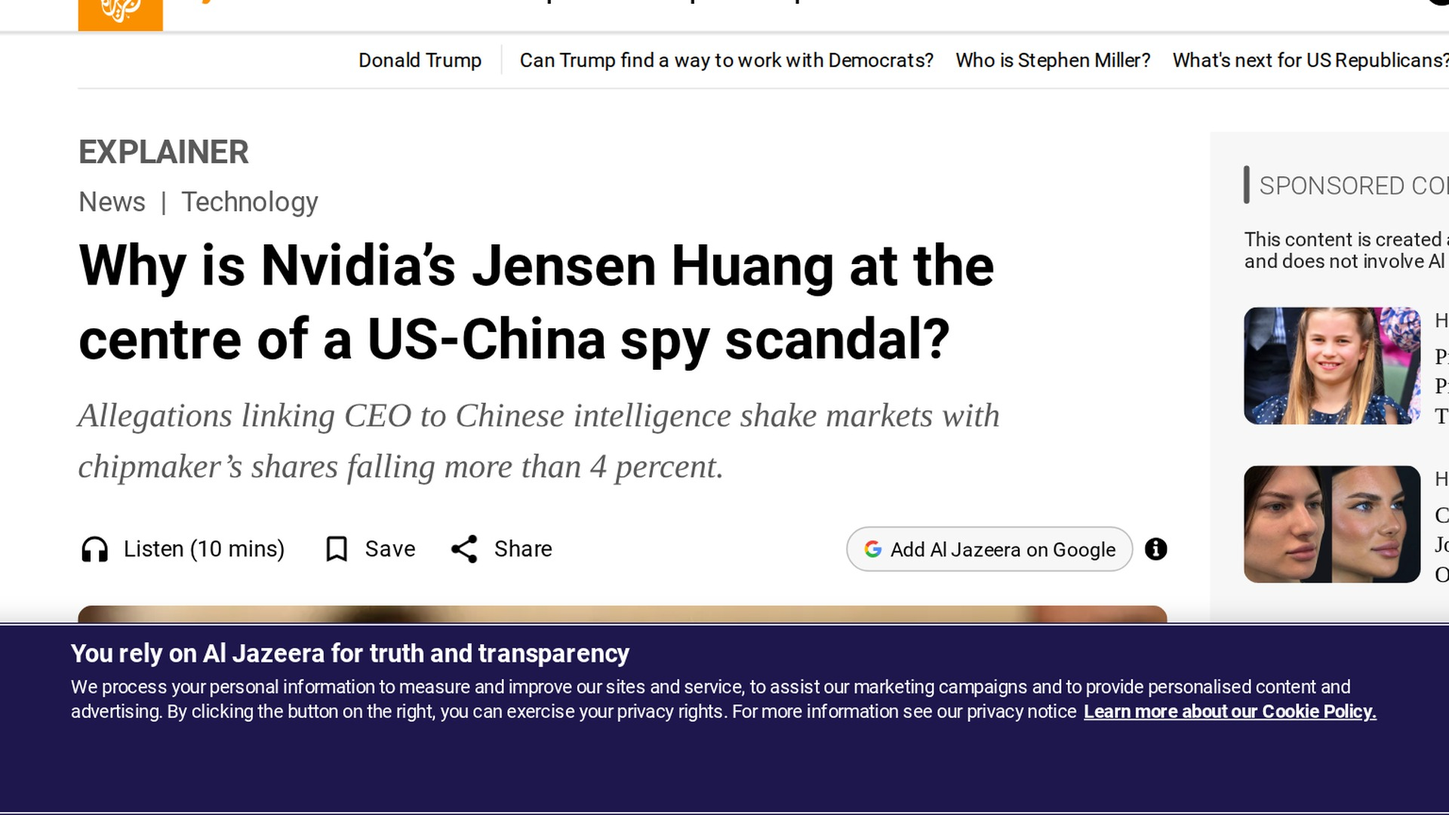
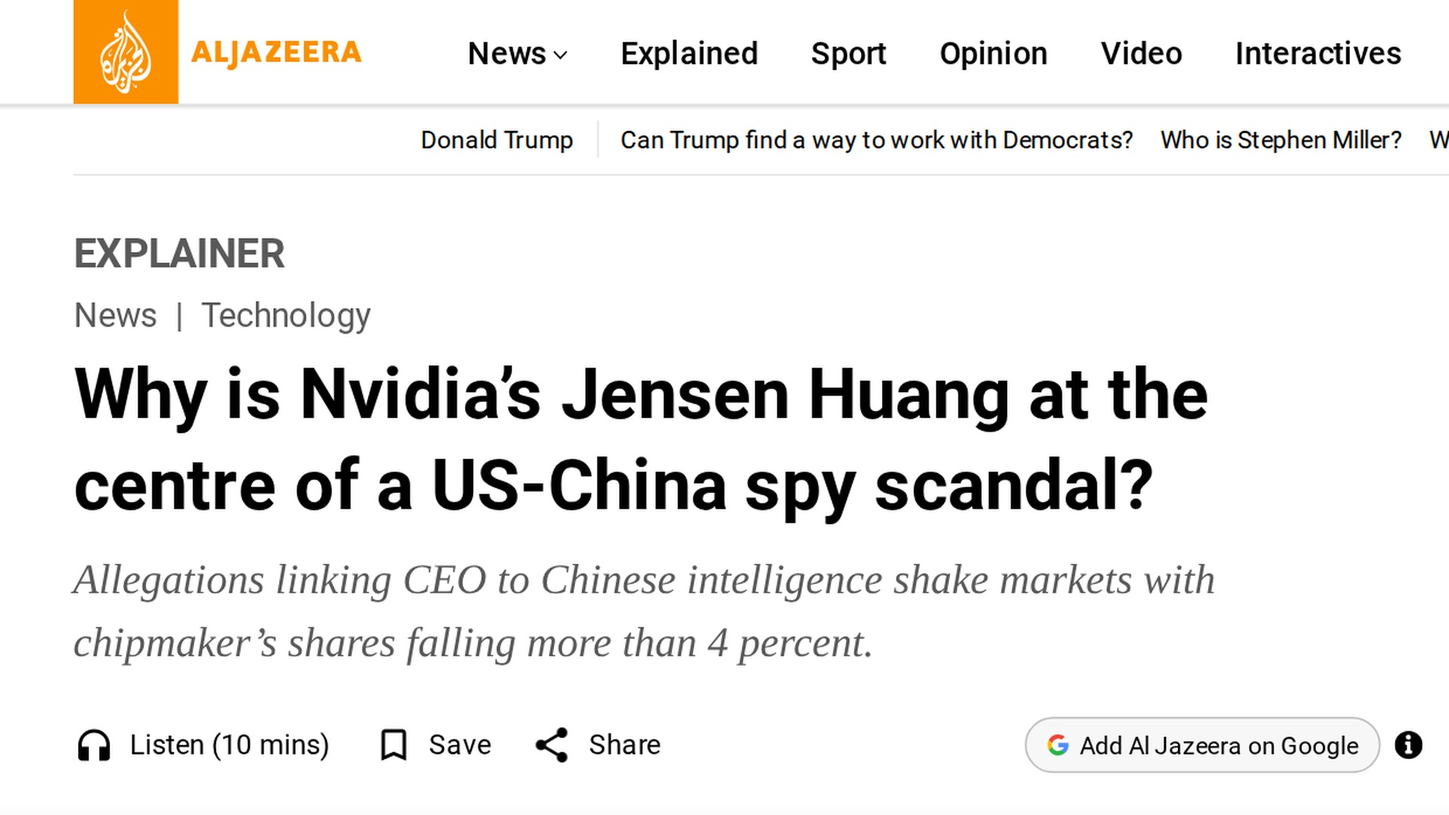
Nvidia video, review round: pages cropped clean, cards off the headlines, the update on screen, captions from the script [skip ci]
From the editor's, animator's and retention reviewer's findings on the 13 November render:
- Al Jazeera and Yahoo pages re-cropped to the article (no adverts rail with unrelated people's photos, no empty advert
  slot); the NBC page (a standfirst with other figures) replaced by the board's own statement with its words highlighted.
- brand.pagecards: strip, so cards sit along the foot and never on a headline ('alleged', 'UK savers'); highlights, a box
  and an underline on the real words of the board statement, the CNBC and the City AM headlines.
- Recorded 11 November 2026 on the title card; 'until 12 November 2026' on his caption; an update card where the voice says
  he is still the CEO, could be removed, might be fine. The update is the first paragraph of the description and comment.
- A still picture is no longer fitted like a 0.04 s clip and frozen: photos push in again (the opening above all).
- A made voice's captions are the script's words in the script's order; a sentence's last word stays with it.
- mute: in the script header silences a stray sound (80 ms at the end of one voice chunk); no word is touched.
- Chapters: 'UK savers' at 5:23, 'What I'm doing' where he reaches his own money; four cards in the set piece with the
  figures; the phone clip ends before the recording's stop swipe.

Claude-Session: https://claude.ai/code/session_01CTvnLS7TEWDTE3fQyBDcgb

diff --git a/video-pipeline/pipeline/build.py b/video-pipeline/pipeline/build.py
@@ -347,11 +347,18 @@ def write_timing(project: str, sb: dict, slug: str, audio_name: str | None) -> N
         json.dump(timing, f, separators=(",", ":"))
 
 
+STILL_EXTS = (".jpg", ".jpeg", ".png", ".webp")
+
+
 def fit_clip(sc: dict, path: str) -> list[str]:
     """Keep a clip's playback inside the file: a frame requested past the end of a video never returns
     and the render hangs. Pulls the start offset back when the scene would run off the end, and loops
     a file shorter than the scene."""
     notes = []
+    if os.path.splitext(path)[1].lower() in STILL_EXTS:
+        # a still picture has no length to fit. Read as a 0.04 s clip it was "held on its last frame" from frame two,
+        # which froze it: the push-in the script asked for (zoom=in) never showed, on the opening photo above all
+        return notes
     try:
         dur = al.audio_duration(path)
     except Exception:  # noqa: BLE001 - ffprobe missing or an unreadable file: leave the clip as written
@@ -720,6 +727,23 @@ def made_voice(project: str, take: str | None) -> bool:
         return False
 
 
+def mute_header(value: str | None) -> list[tuple[float, float]]:
+    """`mute: 388.66-388.78, 412-412.1` in the script header: stretches of the voiceover file (seconds on its own
+    clock) to silence before anything else is done to it. For a click or a stray half-sound at the edge of a made
+    chunk; never for a word. A stretch longer than half a second is refused: that is a word, and words are not cut."""
+    out: list[tuple[float, float]] = []
+    for part in str(value or "").split(","):
+        m = re.match(r"^\s*(\d+(?:\.\d+)?)\s*-\s*(\d+(?:\.\d+)?)\s*s?\s*$", part)
+        if not m:
+            continue
+        a, b = float(m.group(1)), float(m.group(2))
+        if 0 < b - a <= 0.5:
+            out.append((a, b))
+        else:
+            print(f"mute: {part.strip()} is not a short stretch (0.5 s at most): left as it is", file=sys.stderr)
+    return out
+
+
 def cut_restarts(project: str, take: str | None, header: dict[str, str]) -> bool:
     """Whether a restart found in the transcript ("The ... The boring pot?") is cut out of the voice. Yes for a
     recording; never for a made voice, where a word said twice is the script ("Jensen is Nvidia, Nvidia is Jensen")
@@ -950,6 +974,12 @@ def main(argv: list[str] | None = None) -> int:
             LOUDNESS = float(str(_header_lines(md).get("loudness") or LOUDNESS).replace("LUFS", "").strip())
         except ValueError:
             pass
+        mute = mute_header(_header_lines(md).get("mute"))
+        if mute:
+            from .voice import mute_spans
+            os.makedirs(os.path.join(project, ".cache"), exist_ok=True)
+            audio = mute_spans(audio, os.path.join(project, ".cache", "voice-muted.wav"), mute)
+            print(f"voice: {len(mute)} stray sound(s) silenced as the script's mute: line asks ({', '.join(f'{a:g}-{b:g}s' for a, b in mute)}); no word is touched")
         audio = enhance(audio, os.path.join(project, ".cache", "voice-clean.mp3"), level)
         print(f"voice: {'as recorded' if level in ('off', 'raw') else 'enhanced (' + level + ')'}")
         before = al.audio_duration(audio)
@@ -1013,8 +1043,11 @@ def main(argv: list[str] | None = None) -> int:
             moved = snap_cuts(sb, wav)
             for sc in sb["scenes"]:
                 time_cues(sc)
-            changed = take_words(sb, words)
-            print(f"cuts: {moved} moved onto the pause between words; captions: {changed} words follow the take, not the script")
+            # a made voice says the script word for word: where the transcript differs it misheard, and following it
+            # put "The The board" and "of And members" into the captions file that goes up with the video
+            scripted = made_voice(project, find_audio(project))
+            changed = 0 if scripted else take_words(sb, words)
+            print(f"cuts: {moved} moved onto the pause between words; captions: " + ("the script's own words (a made voice)" if scripted else f"{changed} words follow the take, not the script"))
             for line in long_scenes(sb):
                 print(line)
             # a scene the recogniser barely heard was placed by guesswork: its pictures land on the wrong words

diff --git a/video-pipeline/tests/test_voice_made.py b/video-pipeline/tests/test_voice_made.py
@@ -53,3 +53,42 @@ def test_the_script_header_overrides_either_way(tmp_path):
 def test_no_shorts_flag_is_offered():
     src = open(os.path.join(os.path.dirname(build.__file__), "build.py"), encoding="utf-8").read()
     assert '"--no-shorts"' in src and "not args.no_shorts" in src
+
+
+def test_a_still_picture_is_not_fitted_like_a_clip(tmp_path):
+    # read as a 0.04 s clip, a photo was "held on its last frame" from frame two and never pushed in
+    from PIL import Image
+    pic = tmp_path / "real-photo.jpg"
+    Image.new("RGB", (64, 36), "white").save(pic)
+    sc = {"id": 1, "start": 0.0, "end": 5.0, "props": {"src": "real-photo.jpg", "zoom": "in"}}
+    assert build.fit_clip(sc, str(pic)) == []
+    assert sc["props"] == {"src": "real-photo.jpg", "zoom": "in"}
+
+
+def test_mute_takes_short_stretches_only():
+    assert build.mute_header("388.66-388.78, 12 - 12.4s") == [(388.66, 388.78), (12.0, 12.4)]
+    assert build.mute_header("10-12") == []  # two seconds is a word or more: never cut
+    assert build.mute_header(None) == [] and build.mute_header("soon") == []
+
+
+def test_mute_spans_silences_and_keeps_the_length(tmp_path):
+    import numpy as np
+    from pipeline import voice
+    src, dst = str(tmp_path / "a.wav"), str(tmp_path / "b.wav")
+    x = np.full(voice.SR, 8000.0)  # the voice module works in 16-bit sample values
+    voice.write(src, x)
+    voice.mute_spans(src, dst, [(0.4, 0.5)])
+    y = voice.read(dst)
+    assert len(y) == len(x)
+    assert abs(y[int(0.45 * voice.SR)]) < 1 and abs(y[int(0.2 * voice.SR)] - 8000) < 2 and abs(y[int(0.7 * voice.SR)] - 8000) < 2
+
+
+def test_captions_keep_the_script_order_when_word_times_run_backwards():
+    from pipeline import srt
+    words = [("So", 0.64, 0.72), ("Nvidia", 0.52, 0.76), ("has", 0.4, 0.8), ("lost", 0.8, 1.5), ("over", 1.5, 1.88), ("$400", 1.88, 2.36),
+             ("billion", 2.36, 3.24), ("in", 3.24, 3.5), ("2", 3.5, 3.9), ("days.", 3.9, 4.6), ("And", 5.9, 6.0), ("I'm", 6.0, 6.2)]
+    sb = {"scenes": [{"words": [{"w": w, "s": s, "e": e} for w, s, e in words]}]}
+    lines = [text for _, _, text in srt.cues(sb)]
+    assert lines[0] == "So Nvidia has lost over $400 billion in 2 days."  # in order, and the sentence whole
+    starts = [s for s, _, _ in srt.cues(sb)]
+    assert starts == sorted(starts)

diff --git a/video-pipeline/pipeline/srt.py b/video-pipeline/pipeline/srt.py
@@ -18,7 +18,16 @@ def _ts(t: float) -> str:
 
 
 def cues(sb: dict[str, Any], max_chars: int = 42, max_secs: float = 3.6, gap: float = 0.9) -> list[tuple[float, float, str]]:
-    words = sorted((float(w["s"]), float(w["e"]), str(w["w"])) for sc in sb.get("scenes", []) for w in (sc.get("words") or []))
+    # the script's order is the order the words are said. Sorting by time put "has Nvidia So lost" on screen when the
+    # aligner had to guess three word times and they ran backwards, so a time never reorders the words: it is held
+    # at the word before it
+    words: list[tuple[float, float, str]] = []
+    last = 0.0
+    for sc in sb.get("scenes", []):
+        for w in sc.get("words") or []:
+            s = max(float(w["s"]), last)
+            words.append((s, max(float(w["e"]), s), str(w["w"])))
+            last = s
     out: list[tuple[float, float, str]] = []
     cur: list[tuple[float, float, str]] = []
 
@@ -28,7 +37,10 @@ def cues(sb: dict[str, Any], max_chars: int = 42, max_secs: float = 3.6, gap: fl
             cur.clear()
 
     for s, e, w in words:
-        if cur and (s - cur[-1][1] > gap or len(" ".join(x[2] for x in cur) + " " + w) > max_chars or s - cur[0][0] > max_secs):
+        line = len(" ".join(x[2] for x in cur) + " " + w)
+        # a sentence's last word stays with its sentence when it is only a little over ("... in 2 days." not "days." alone)
+        closes = w[-1:] in ".?!" and line <= max_chars + 8
+        if cur and (s - cur[-1][1] > gap or (line > max_chars and not closes) or s - cur[0][0] > max_secs + (0.6 if closes else 0)):
             flush()
         cur.append((s, e, w))
         text = " ".join(x[2] for x in cur)

diff --git a/video-pipeline/pipeline/voice.py b/video-pipeline/pipeline/voice.py
@@ -255,6 +255,23 @@ def remove_spans(src: str, dst: str, spans: list[tuple[float, float]], sr: int =
     return dst
 
 
+def mute_spans(src: str, dst: str, spans: list[tuple[float, float]], sr: int = SR) -> str:
+    """`dst`: `src` with the (start, end) stretches silenced, the same length (a stray sound at a chunk's edge; the
+    build's room-tone fill then covers the hole). Faded over 4 ms each side so the silence does not click."""
+    x = read(src, sr).copy()
+    f = int(0.004 * sr)
+    for a, b in spans:
+        i, j = max(0, int(a * sr)), min(len(x), int(b * sr))
+        if j - i <= 2 * f:
+            x[i:j] = 0
+            continue
+        x[i:i + f] = x[i:i + f] * np.linspace(1, 0, f)
+        x[i + f:j - f] = 0
+        x[j - f:j] = x[j - f:j] * np.linspace(0, 1, f)
+    write(dst, x, sr)
+    return dst
+
+
 def shift_time(t: float, removed: list[tuple[float, float]]) -> float:
     """a moment of the original recording on the tightened one"""
     gone = 0.0

diff --git a/video-pipeline/projects/nvidia-400-billion/script.md b/video-pipeline/projects/nvidia-400-billion/script.md
@@ -8,6 +8,8 @@ pace.lead: 0.4
 pace.hold: 0.3
 voice: natural
 loudness: -16
+brand.pagecards: strip
+mute: 388.66-388.78
 tts.model: eleven_v4
 slug: nvidia-400-billion
 topic: Nvidia's two-day fall after its CEO admitted an affair and the board opened an investigation into reports he was the target of a foreign intelligence operation: what happened, why Nvidia is a target, what it means for AI and for a UK tracker investor, and how Jeffrey hedges with diversification; in Jeffrey's own way of talking (docs/voice.md)
@@ -22,10 +24,10 @@ And I'm going to be honest, I've got money riding on this one, so I've been watc
 [broll lib="vuag-holdings-app" phone=on caption="Top of an S&P 500 fund: Nvidia" marks="ink:circle 30,42@own" cards="ink:a pension@pension; ink:or a tracker fund@tracker; ink:you probably own some@own"]
 And if you've got a pension or a tracker fund, you probably own some as well, even if you've never bought it.
 
-[stat value="£70" label="What Nvidia's fall took off" sub="so it's not the end of the world" source="Bestinvest (Evelyn Partners), quoted in City AM, November 2026; Nvidia's closing prices, 6 and 10 November 2026" cards="ink:£10,000 in an S&P 500 tracker@10; ink:not the end of the world@end"]
+[stat value="£70" label="What Nvidia's fall took off" sub="so it's not the end of the world" source="Bestinvest (Evelyn Partners), quoted in City AM, November 2026; Nvidia's closing prices, 6 and 10 November 2026" cards="ink:£10,000 in an S&P 500 tracker@10"]
 I worked it out, and on 10 grand in an S&P 500 tracker, it's taken off about £70. So it's not the end of the world.
 
-[broll src="real-aljazeera.jpg" zoom=in caption="Al Jazeera, 9 November 2026" credit="aljazeera.com" cards="ink:I couldn't believe it@believe; ink:the CEO@CEO; ink:an affair: admitted@admitted; ink:a spy claim: alleged@alleged"]
+[broll src="real-aljazeera.jpg" zoom=none caption="Al Jazeera, 9 November 2026" credit="aljazeera.com" cards="ink:I couldn't believe it@believe; ink:the CEO@CEO; ink:an affair: admitted@admitted; ink:a spy claim: alleged@alleged"]
 But the story behind it, honestly, I couldn't believe it when I first read it. The CEO, an affair he's admitted to, and an alleged Chinese spy.
 
 [list title="What I want to go through" anim=bar-race anim_labels=off art_at=r art_size=0.4 cards="ink:for AI and the stock market@stock; ink:and my own money@own"]
@@ -35,15 +37,15 @@ But the story behind it, honestly, I couldn't believe it when I first read it. T
 - What I'm doing: I haven't sold
 So I want to go through what actually happened, why Nvidia, what I think it means for AI and the stock market, and then what I'm doing with my own money.
 
-[title dur=1.2 title="Nvidia lost $400 billion in 2 days" subtitle="What it means for your money"]
+[title dur=1.2 kicker="Recorded 11 November 2026" title="Nvidia lost $400 billion in 2 days" subtitle="What it means for your money"]
 
-[broll src="real-huang-3.jpg" zoom=in caption="Jensen Huang, Nvidia's CEO" credit="Photo: Anderseidesvik, CC BY-SA 4.0, via Wikimedia Commons" cards="ink:Sunday 8 November@Sunday; ink:a letter to every employee@letter" part="What happened"]
+[broll src="real-huang-3.jpg" zoom=in caption="Jensen Huang, Nvidia's CEO until 12 November 2026" credit="Photo: Anderseidesvik, CC BY-SA 4.0, via Wikimedia Commons" cards="ink:Sunday 8 November@Sunday; ink:a letter to every employee@letter" part="What happened"]
 So here's what happened. On Sunday the 8th of November, Jensen Huang, the guy who runs Nvidia, sent a letter to every single employee.
 
-[broll src="real-letter.jpg" zoom=in caption="Nvidia's own newsroom, 8 November 2026" credit="nvidianews.nvidia.com" cards="ink:unfaithful to his wife@unfaithful; ink:he apologised@apologised; ink:he takes full responsibility@responsibility"]
+[broll src="real-letter.jpg" zoom=none caption="Nvidia's own newsroom, 8 November 2026" credit="nvidianews.nvidia.com" cards="ink:unfaithful to his wife@unfaithful; ink:he apologised@apologised; ink:he takes full responsibility@responsibility"]
 He said he'd been unfaithful to his wife. He apologised, and he said he takes full responsibility.
 
-[broll src="real-board.jpg" zoom=in caption="The board's statement, 8 November 2026" credit="investor.nvidia.com" cards="ink:an independent investigation@independent; ink:not really about the affair@affair; ink:reports of a foreign intelligence operation@reports"]
+[broll src="real-board.jpg" zoom=in caption="The board's statement, 8 November 2026" credit="investor.nvidia.com" marks="underline 21.1,45.5,15.4@independent; highlight 71.6,42.6,21.1,2.8@target" cards="ink:not really about the affair@affair"]
 That same day, Nvidia's board opened an independent investigation. And to be clear, it's not really about the affair. It's about reports that he was the target of a foreign intelligence operation.
 
 [broll search="computer chip circuit board macro" caption="An allegation, not a finding" marks="ink:circle 50,50@chips" cards="ink:according to the reports@reports; ink:first reported by the New York Times@York; ink:what US intelligence is said to believe@intelligence; ink:reportedly: billions of dollars of chips@reportedly" src="09-computer-chip-circuit-board-macro.mp4" credit="Video 13461 by onijake via Pixabay"]
@@ -52,10 +54,10 @@ So according to those reports, and the New York Times had it first, US intellige
 [text board="Admitted: the affair | Alleged: the spy claim" art=off cards="ink:his own letter@careful; ink:nobody charged@charged; ink:China denies it@denies"]
 Now, I want to be careful here. That's an allegation. Nobody's been charged, and China denies it.
 
-[broll src="real-nbc.jpg" zoom=in caption="NBC News, 10 November 2026" credit="nbcnews.com" cards="ink:the board: no reason to believe secrets were compromised@reason; ink:or national security@national; ink:it still has confidence in him@confidence; ink:still the CEO, as I record this@recording; ink:a former US prosecutor is brought in@brought"]
+[broll src="real-board.jpg" zoom=none caption="The board's statement, 8 November 2026" credit="investor.nvidia.com" marks="highlight 14.5,60.2,45.6,2.9@reason; highlight 9.2,70.1,13.6,2.9@confidence" cards="ink:update: he resigned on 12 November@recording; ink:NBC News: a former US prosecutor is brought in@brought"]
 The board says it's got no reason to believe any company secrets or national security were compromised, and it says it still has confidence in him. As I'm recording this, he's still the CEO. And they've brought in a former US prosecutor to run the investigation.
 
-[list title="Since then" unnumbered]
+[list title="Since then" unnumbered anim=calendar-flip anim_labels=off art_at=r art_size=0.42 art_start=0]
 - The FBI is looking into it
 - Investors have filed a lawsuit
 - No timetable (Reuters)
@@ -75,7 +77,7 @@ So why would a spy even care about a company that makes chips?
 [broll search="server room data centre racks" caption="A data centre" cards="ink:what AI runs on@runs; ink:most big AI systems: trained on Nvidia's chips@trained; ink:the thing you want@thing" src="16-server-room-data-centre-racks.mp4" credit="Video 14906 by cipnt via Pixabay"]
 Because those chips are pretty much what AI runs on. Most of the big AI systems in the world are trained on Nvidia's chips. So if you're a country that wants to win at AI, this is the thing you want.
 
-[broll src="real-cnbc-china.jpg" vsrc="real-cnbc-china-v.jpg" vfit=contain w=1400 h=780 zoom=in caption="CNBC, 10 November 2026" credit="cnbc.com" cards="ink:US limits on its chips@limits; ink:what can be sold to China@China; ink:he pushed to loosen those rules@loosen; ink:direct access to the president@access; ink:a chip analyst, to CNBC@analyst; ink:35 years@35; ink:this much influence on export policy@influence"]
+[broll src="real-cnbc-china.jpg" vsrc="real-cnbc-china-v.jpg" vfit=contain w=1400 h=780 zoom=none caption="CNBC, 10 November 2026" credit="cnbc.com" marks="highlight 2.8,42.7,45.6,7.4@China" cards="ink:US limits on its chips@limits; ink:he pushed to loosen those rules@loosen; ink:direct access to the president@access; ink:a chip analyst, to CNBC@analyst; ink:35 years@35; ink:this much influence on export policy@influence"]
 And here's the thing. The US limits which of those chips can be sold to China. Jensen Huang has publicly pushed to loosen those rules, and he's had direct access to the president. One chip analyst told CNBC that in 35 years, he's never seen a chip CEO with this much influence on export policy.
 
 [broll search="shipping containers port cranes" pick=2 caption="If you believe the reporting" cards="ink:not only about secrets@secrets; ink:about influence@influence; ink:how he thinks about selling to China@thinks; ink:but that's the claim@claim; ink:what the investigation is for@investigation" src="18-shipping-containers-port-cranes.mp4" credit="Video 23008 by bellergy via Pixabay"]
@@ -92,13 +94,13 @@ First thing I noticed: on Monday, while Nvidia dropped 4.3%, the Nasdaq, which i
 [stat value="$96.2bn" label="Nvidia's sales in its last reported quarter" sub="more than double the year before" source="Nvidia second-quarter results, fiscal 2027, August 2026" anim=arrow-up anim_labels=off art_at=r art_size=0.5 art_start=2.2 cards="ink:the business hasn't changed@changed; ink:the companies buying these chips@companies; ink:aren't going to stop@stop"]
 And the business hasn't changed, right? Last quarter, Nvidia made $96.2 billion in sales. That's more than double the year before. The companies buying these chips aren't going to stop because of the CEO's private life.
 
-[broll src="real-cnbc-succession.jpg" zoom=in caption="CNBC, 9 November 2026" credit="cnbc.com" cards="ink:2 real risks@risks; ink:one: the man himself@man; ink:no clear successor@successor"]
+[broll src="real-cnbc-succession.jpg" zoom=none caption="CNBC, 9 November 2026" credit="cnbc.com" cards="ink:2 real risks@risks; ink:one: the man himself@man; ink:no clear successor@successor"]
 But to be fair, there are 2 real risks here. The first one is the man himself. Analysts are saying Nvidia doesn't have a clear successor.
 
 [broll src="real-huang-1.jpg" zoom=in caption="Jensen is Nvidia. Nvidia is Jensen." credit="Photo: Anderseidesvik, CC BY-SA 4.0, via Wikimedia Commons" cards="ink:one analyst, quoted by CNBC@put"]
 One of them put it like this: Jensen is Nvidia, Nvidia is Jensen.
 
-[broll src="real-hq-sign.jpg" zoom=in caption="He doesn't control the votes" credit="Photo: Will Buckner, CC BY 2.0, via Wikimedia Commons" cards="ink:unlike Zuckerberg at Meta@Zuckerberg; ink:Reuters: he doesn't control the votes@votes; ink:the board could remove him@remove; ink:then nobody knows who runs it@nobody"]
+[broll src="real-hq-sign.jpg" zoom=in caption="He doesn't control the votes" credit="Photo: Will Buckner, CC BY 2.0, via Wikimedia Commons" cards="ink:unlike Zuckerberg at Meta@Zuckerberg; ink:Reuters: he doesn't control the votes@votes; ink:the board could remove him@remove; ink:then nobody knows who runs it@nobody; ink:update: he resigned on 12 November@valuable"]
 And Reuters made a point I hadn't thought about. Unlike Mark Zuckerberg at Meta, he doesn't control the votes. So the board really could remove him. And if it did, nobody knows who runs the most valuable company in AI.
 
 [news outlet="The Hill" date="November 2026" url="https://thehill.com/policy/technology/6211351-chip-export-restrictions-momentum-nvidia-huang/" headline="Nvidia's Jensen Huang scandal fuels push for strict AI chip export bills" board="Risk 2: Washington" cards="ink:two: politics@politics; ink:new momentum for bills in Congress@momentum; ink:tighter rules on selling AI chips abroad@tighten"]
@@ -124,13 +126,13 @@ left: McDonald's, 2019 | Up 12% | CEO fired over a relationship
 right: Intel, 2018 | Lower | CEO resigned over a relationship
 Intel's CEO resigned for a similar reason in 2018. A year later, they were lower. So in both cases, what the business did next mattered way more than the scandal.
 
-[broll src="real-cityam.jpg" zoom=in caption="City AM, 10 November 2026" credit="cityam.com" part="What I'm doing" cards="ink:what about us, over here?@us; ink:City AM@City; ink:its headline, 10 November@headline; ink:UK savers, exposed@savers; ink:millions of people in the UK@millions; ink:a pension@pension; ink:an ISA@ISA; ink:a tracker fund@tracker"]
+[broll src="real-cityam.jpg" zoom=none caption="City AM, 10 November 2026" credit="cityam.com" part="UK savers" marks="highlight 59.8,19.4,25.6,9.4@savers; box 4.9,32.6,26.0,11.4@exposed" cards="ink:what about us, over here?@us; ink:millions of people in the UK@millions; ink:a pension@pension; ink:an ISA@ISA; ink:a tracker fund@tracker"]
 So what about us, over here? City AM ran this headline: the Nvidia scandal leaves UK savers exposed. Because millions of people in the UK own Nvidia without ever buying it, through a pension, an ISA, or a tracker fund.
 
-[broll src="real-yahoo.jpg" zoom=in caption="Yahoo Finance UK, 11 November 2026" credit="uk.finance.yahoo.com" cards="ink:people here are split@split; ink:AJ Bell: its most bought share@bought; ink:IG: sell trades up 157%@157%; ink:some buying the dip@buying; ink:some getting out@getting"]
+[broll src="real-yahoo.jpg" zoom=none caption="The Independent, on Yahoo Finance UK, 11 November 2026" credit="uk.finance.yahoo.com" cards="ink:people here are split@split; ink:AJ Bell: its most bought share@bought; ink:IG: sell trades up 157%@157%; ink:some buying the dip@buying; ink:some getting out@getting"]
 And people here are split. AJ Bell says Nvidia was the most bought share on its platform between the 5th and the 9th of November. But IG says its sell trades jumped 157%. So some people are buying the dip, and some are getting out.
 
-[broll lib="vuag-max-chart-app" from=7 phone=on caption="The core: an S&P 500 fund" marks="ink:note:the fund's price, not my balance 50,22@core" cards="ink:where I stand@stand; ink:the core: the S&P 500@core; ink:boring@boring; ink:broad@broad; ink:does the heavy lifting@heavy; ink:Nvidia: its biggest company@biggest; ink:about £7 of every £100@£7"]
+[broll lib="vuag-max-chart-app" from=6 phone=on part="What I'm doing" caption="The core: an S&P 500 fund" marks="ink:note:the fund's price, not my balance 50,22@core" cards="ink:where I stand@stand; ink:the core: the S&P 500@core; ink:boring@boring; ink:broad@broad; ink:does the heavy lifting@heavy; ink:Nvidia: its biggest company@biggest; ink:about £7 of every £100@£7"]
 So here's where I stand. I've said this before on the channel: the core of what I invest is the S&P 500. It's boring, it's broad, and it does the heavy lifting. And Nvidia is the biggest company in it. One UK investment firm puts it at around £7 of every £100 in the fund.
 
 [compare title="£10,000, after Nvidia's fall" good=left source="Worked out from closing prices, 6 and 10 November 2026, and about £7 in every £100 (Bestinvest, via City AM)" cards="green:the other 499 companies did their job@499"]
@@ -157,10 +159,10 @@ For AI, I use a basket instead of picking one company, so if one of them has a t
 [text board="Emergency fund, kept separate" art=off anim=piggy-bank anim_labels=off art_at=r art_size=0.45 art_start=0.3 cards="ink:never forced to sell@forced"]
 I keep my emergency fund completely separate, so I'm never forced to sell when things are down.
 
-[set room=living-room walk cards="ink:stick to a plan@stick; ink:crypto, 2021@2021; red:all the way down@down; red:I panicked and sold@panicked; ink:I still think about that@think; ink:not that mistake again@mistake"]
+[set room=living-room walk cards="ink:crypto, 2021@2021; red:£11,000 → £4,500@half; red:I panicked and sold@panicked; ink:not that mistake again@mistake"]
 And I try to {explain} stick to a plan. Because back in 2021, I {chart-down} watched 11 grand in crypto go all the way down to four and a half, and I {facepalm} panicked and sold. I still {thinking} think about that. So I'm trying not to make that {stop} mistake again.
 
-[text board="I don't know how this ends | Why I don't want too much on one company" art=off cards="ink:he might be fine@fine; ink:he might not@might; ink:even one I like@like"]
+[text board="I don't know how this ends | Why I don't want too much on one company" art=off cards="ink:he might be fine@fine; ink:update: he resigned on 12 November@not; ink:even one I like@like"]
 I don't know how this ends, I really don't. He might be fine, he might not. And I guess that's why I don't want too much riding on any one company, even one I like.
 
 [broll search="stock market trading screen numbers" pick=2 caption="Not advice" cards="ink:not a financial advisor@advisor; ink:this isn't advice@advice; ink:I've got money in this@money; ink:so I'm not exactly neutral@neutral" src="43-stock-market-trading-screen-numbers.mp4" credit="Video 308077 by gofurxp via Pixabay"]

diff --git a/video-pipeline/projects/nvidia-400-billion/description.md b/video-pipeline/projects/nvidia-400-billion/description.md
@@ -1,6 +1,6 @@
-Nvidia lost more than $400 billion of its value in 2 days after its CEO, Jensen Huang, admitted an affair and the board opened an investigation into reports that he was the target of a foreign intelligence operation. If you hold a pension, an ISA or a tracker fund in the UK, you probably own Nvidia too. Here's what happened, why Nvidia, what it means for AI and the stock market, and what I'm doing with my own money.
-
 UPDATE, 12 November 2026: since I recorded this, Jensen Huang has resigned as Nvidia's CEO and left the board. Nvidia's finance chief, Colette Kress, is interim CEO while the board looks for a permanent replacement (Nvidia's own announcement and SEC filing). The company gave no reason. NBC News and CNBC report it followed claims of a second relationship, with an executive who reported to him. The shares fell sharply again on Thursday morning, and CNBC says he has agreed to testify to Congress before Thanksgiving. So where I say "he's still the CEO" and "the board could remove him", that has now happened. Results are still due on 17 November. The spying claims are still allegations and nobody has been charged. What I'm doing with my own money hasn't changed: I haven't sold.
+
+Nvidia lost more than $400 billion of its value in 2 days after its CEO, Jensen Huang, admitted an affair and the board opened an investigation into reports that he was the target of a foreign intelligence operation. If you hold a pension, an ISA or a tracker fund in the UK, you probably own Nvidia too. Here's what happened, why Nvidia, what it means for AI and the stock market, and what I'm doing with my own money.
 
 Recorded 11 November 2026. This is a developing story: the spying claims are allegations, nobody has been charged, China denies them, and Nvidia's board says it has no reason to believe company secrets or national security were compromised.
 
@@ -9,7 +9,8 @@ Chapters
 0:48 What happened
 2:18 Why Nvidia
 3:08 What it means
-5:23 What I'm doing
+5:23 UK savers
+5:54 What I'm doing
 
 Sources
 - Update, 12 November: Nvidia, "NVIDIA Announces CEO Transition" and Form 8-K; NBC News, CNBC, Al Jazeera, 12 November 2026.

diff --git a/video-pipeline/projects/nvidia-400-billion/pinned-comment.md b/video-pipeline/projects/nvidia-400-billion/pinned-comment.md
@@ -1,5 +1,5 @@
-Buying, selling or leaving it alone? Tell me what you're doing and why.
-
 UPDATE, 12 November 2026: since I recorded this, Jensen Huang has resigned as Nvidia's CEO and left the board. Nvidia's finance chief, Colette Kress, is interim CEO while the board looks for a permanent replacement (Nvidia's own announcement and SEC filing). The company gave no reason. NBC News and CNBC report it followed claims of a second relationship, with an executive who reported to him. The shares fell sharply again on Thursday morning, and CNBC says he has agreed to testify to Congress before Thanksgiving. So where I say "he's still the CEO" and "the board could remove him", that has now happened. Results are still due on 17 November. The spying claims are still allegations and nobody has been charged. What I'm doing with my own money hasn't changed: I haven't sold.
+
+Buying, selling or leaving it alone? Tell me what you're doing and why.
 
 Recorded 11 November 2026. I'll keep updating this comment.
